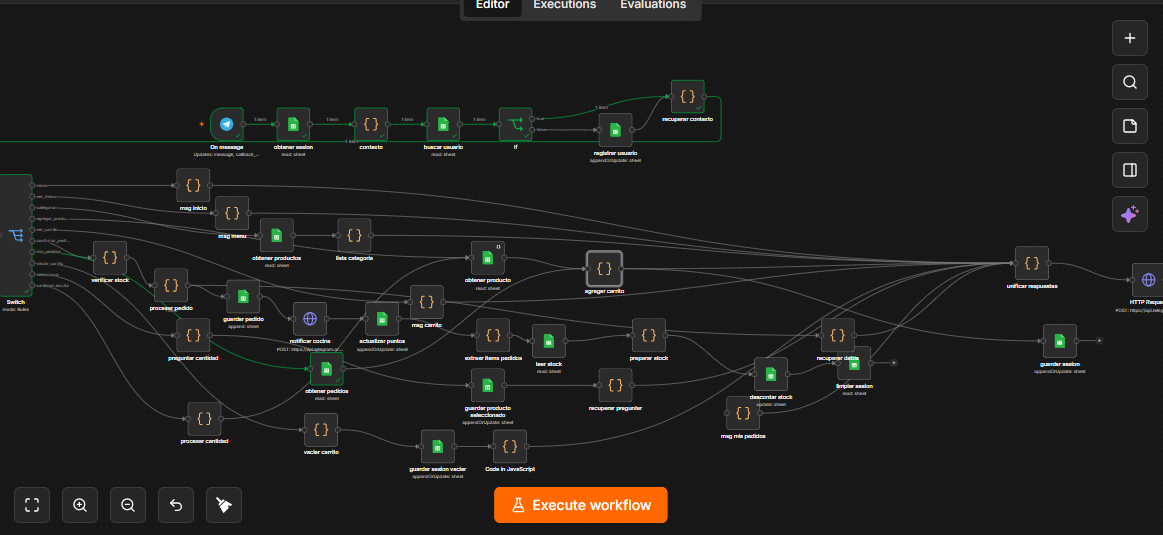
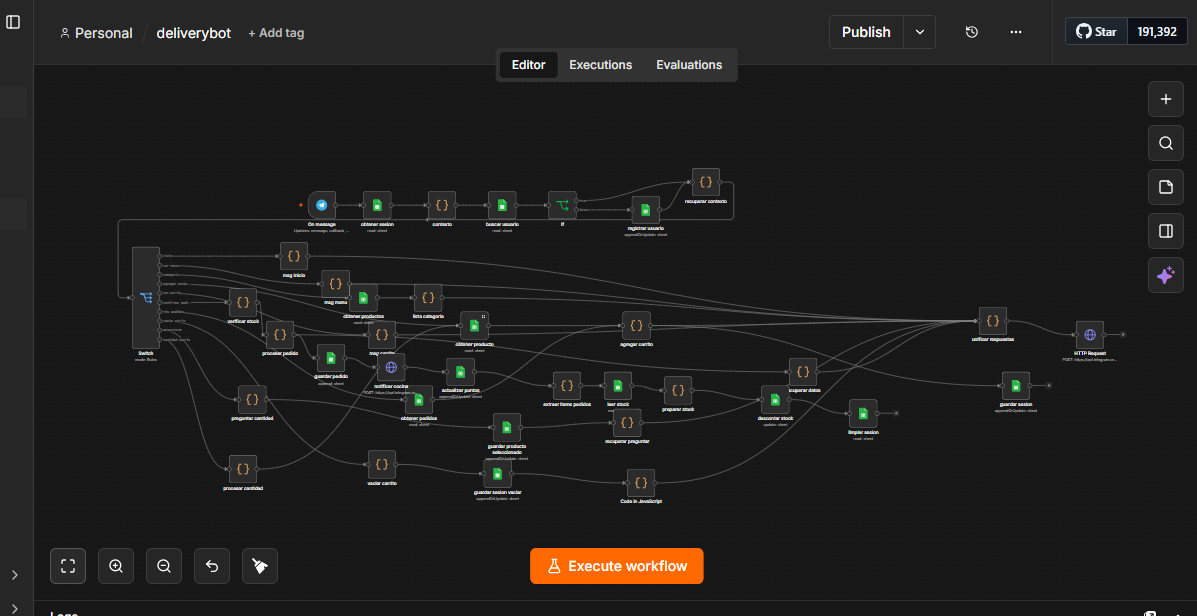
feat: :pencil: agregar el autor

diff --git a/README.md b/README.md
@@ -550,7 +550,7 @@ Se activa automáticamente cada 1 minuto sin necesidad de intervención.
 ```
 Trigger Interval: Minutes
 Minutes Between Triggers: 1
-
+```
 ![alt text](images/nodo-schedule-trigger.png)
 
 ```
@@ -561,8 +561,9 @@ Lee todos los pedidos de la hoja PEDIDOS sin filtros para revisarlos todos.
 ```
 Operation: Get Rows
 Sheet: PEDIDOS
+```
 
-images/nodo-obtener-pedidos-monitor-estados.png
+![alt text](images/nodo-obtener-pedidos-monitor-estados.png)
 
 ```
 
@@ -573,10 +574,12 @@ Filtra solo los pedidos que están en estados intermedios — ni Recibido ni Ent
 const activos = pedidos.filter(p => 
   p.json.ESTADO !== 'Entregado' && p.json.ESTADO !== 'Recibido'
 );
-
-images/nodo-filtro-pedidos.png
-
 ```
+
+
+![alt text](images/nodo-filtro-pedidos.png)
+
+
 
 ### NODO 4 — notificar estado (HTTP Request)
 Envía un mensaje al cliente informando el nuevo estado de su pedido.
@@ -586,8 +589,8 @@ Envía un mensaje al cliente informando el nuevo estado de su pedido.
   "chat_id": {{ $json.telegram_id }},
   "text": "Tu pedido PED-xxx esta ahora en estado: Preparacion"
 }
-
-images/nodo-notificar-estado.png
+```
+![alt text](images/nodo-notificar-estado.png)
 
 ```
 
@@ -595,7 +598,7 @@ Para cambiar el estado, el administrador edita directamente la columna ESTADO en
 
 ```
 Recibido → Preparacion → En camino → Entregado
-```
+
 
 ![alt text](images/img-cambio-estado.jpeg)
 
@@ -615,12 +618,11 @@ Trigger Interval: Days
 Days Between Triggers: 1
 Trigger at Hour: 8
 ---
-
-images/nodo-schedule-trigger2.png
+```
+![alt text](images/nodo-schedule-trigger2.png)
 
 ---
 
-```
 
 ### NODO 2 — pedidos del dia (Google Sheets)
 Lee todos los pedidos de la hoja PEDIDOS para filtrarlos por fecha.
@@ -629,7 +631,7 @@ Lee todos los pedidos de la hoja PEDIDOS para filtrarlos por fecha.
 Operation: Get Rows
 Sheet: PEDIDOS
 
-images/nodo-pedido-dia.png
+![alt text](images/nodo-pedido-dia.png)
 
 ```
 
@@ -642,10 +644,13 @@ const pedidosHoy = pedidos.filter(p => p.json.FECHA === hoy);
 const total = pedidosHoy.reduce((sum, p) => sum + parseInt(p.json.TOTAL_PAGO), 0);
 // Construye ranking de productos mas vendidos
 const masVendidos = Object.entries(conteo).sort((a, b) => b[1] - a[1]).slice(0, 3);
-
-images/nodo-filtrar-hoy.png
-
 ```
+
+
+![alt text](images/nodo-filtrar-hoy.png)
+
+
+
 
 ### NODO 4 — enviar reporte (HTTP Request)
 Envía el reporte al administrador via Telegram con el resumen del día.
@@ -818,3 +823,5 @@ nuevo_stock = parseInt(stockActual.STOCK) - item.cantidad
 **Cómo lo resolvimos:** Editamos directamente el encabezado en Google Sheets eliminando el espacio invisible.
 
 ---
+## Autor
+**Juan Sebastián Salas**